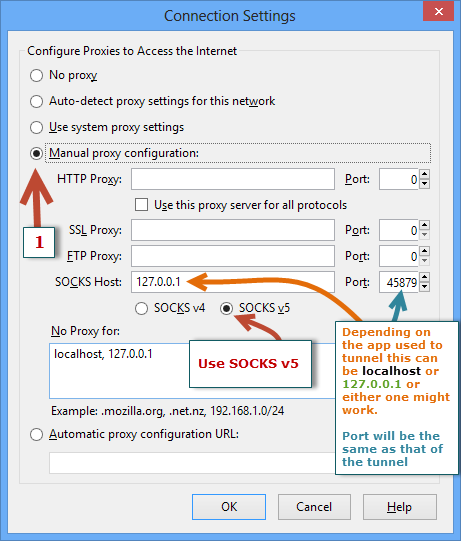
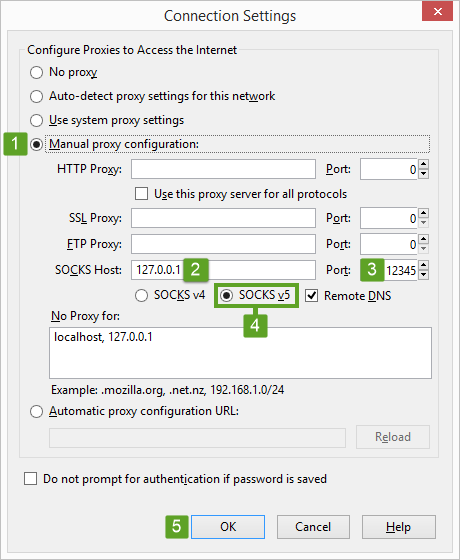
images

Changed region(s): [[0.0, 0.0, 1.0, 1.0]]

diff --git a/Feral Wiki/SSH/SSH Tunnels - How to use them with your applications/readme.md b/Feral Wiki/SSH/SSH Tunnels - How to use them with your applications/readme.md
@@ -33,21 +33,36 @@ This is the best method for firefox. A very customizable proxy addon.
 
 ### Chrome
 
-[Chrome Proxy SwitchySharp](https://chrome.google.com/webstore/detail/proxy-switchysharp/dpplabbmogkhghncfbfdeeokoefdjegm)
+[Proxy SwitchyOmega](https://chrome.google.com/webstore/detail/proxy-switchyomega/padekgcemlokbadohgkifijomclgjgif)
 
 Chrome does not give the user any useful built in network/proxy options. The plugin below is the best choice to do this (it is a good plugin)
 
-Once you have installed the plugins, click on it's icon and click on `Options`.
+Once you have installed the plugins, click on it's icon and click on `Options` and create a new profile.
 
-![](https://raw.github.com/feralhosting/feralfilehosting/master/Feral%20Wiki/SSH/SSH%20Tunnels%20-%20How%20to%20use%20them%20with%20your%20applications/proxysharp1.png)
+![](https://raw.github.com/feralhosting/feralfilehosting/master/Feral%20Wiki/SSH/SSH%20Tunnels%20-%20How%20to%20use%20them%20with%20your%20applications/proxyomega1.png)
 
-Now in the options window enter you proxy information.
+Now give create a new profile and select the  Proxy profile.
 
-![](https://raw.github.com/feralhosting/feralfilehosting/master/Feral%20Wiki/SSH/SSH%20Tunnels%20-%20How%20to%20use%20them%20with%20your%20applications/proxysharp2.png)
+![](https://raw.github.com/feralhosting/feralfilehosting/master/Feral%20Wiki/SSH/SSH%20Tunnels%20-%20How%20to%20use%20them%20with%20your%20applications/proxyomega2.png)
 
 After you have saved, you can click on the icon to select from any configured proxies.
 
-![](https://raw.github.com/feralhosting/feralfilehosting/master/Feral%20Wiki/SSH/SSH%20Tunnels%20-%20How%20to%20use%20them%20with%20your%20applications/proxysharp3.png)
+![](https://raw.github.com/feralhosting/feralfilehosting/master/Feral%20Wiki/SSH/SSH%20Tunnels%20-%20How%20to%20use%20them%20with%20your%20applications/proxyomega3.png)
 
+Now:
+
+**1:** Select `SOCKS5`
+
+**2:** Enter `127.0.0.1`
+
+**3:** Select a port between the range of `10001` to `32001`
+
+**4:** Apply the changes
+
+![](https://raw.github.com/feralhosting/feralfilehosting/master/Feral%20Wiki/SSH/SSH%20Tunnels%20-%20How%20to%20use%20them%20with%20your%20applications/proxyomega4.png)
+
+Once saved, you can select the icon again to see and select your new proxy connections.
+
+![](https://raw.github.com/feralhosting/feralfilehosting/master/Feral%20Wiki/SSH/SSH%20Tunnels%20-%20How%20to%20use%20them%20with%20your%20applications/proxyomega5.png)
 
 
